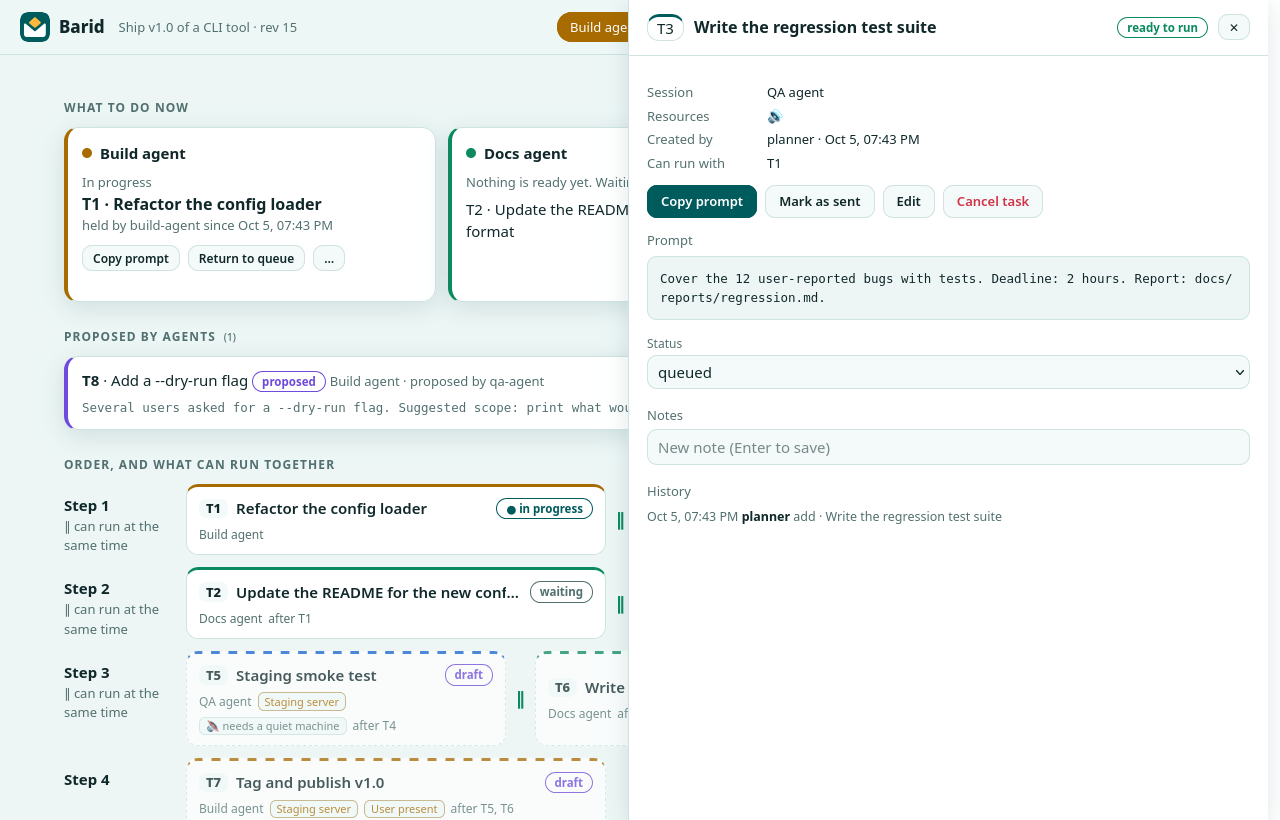
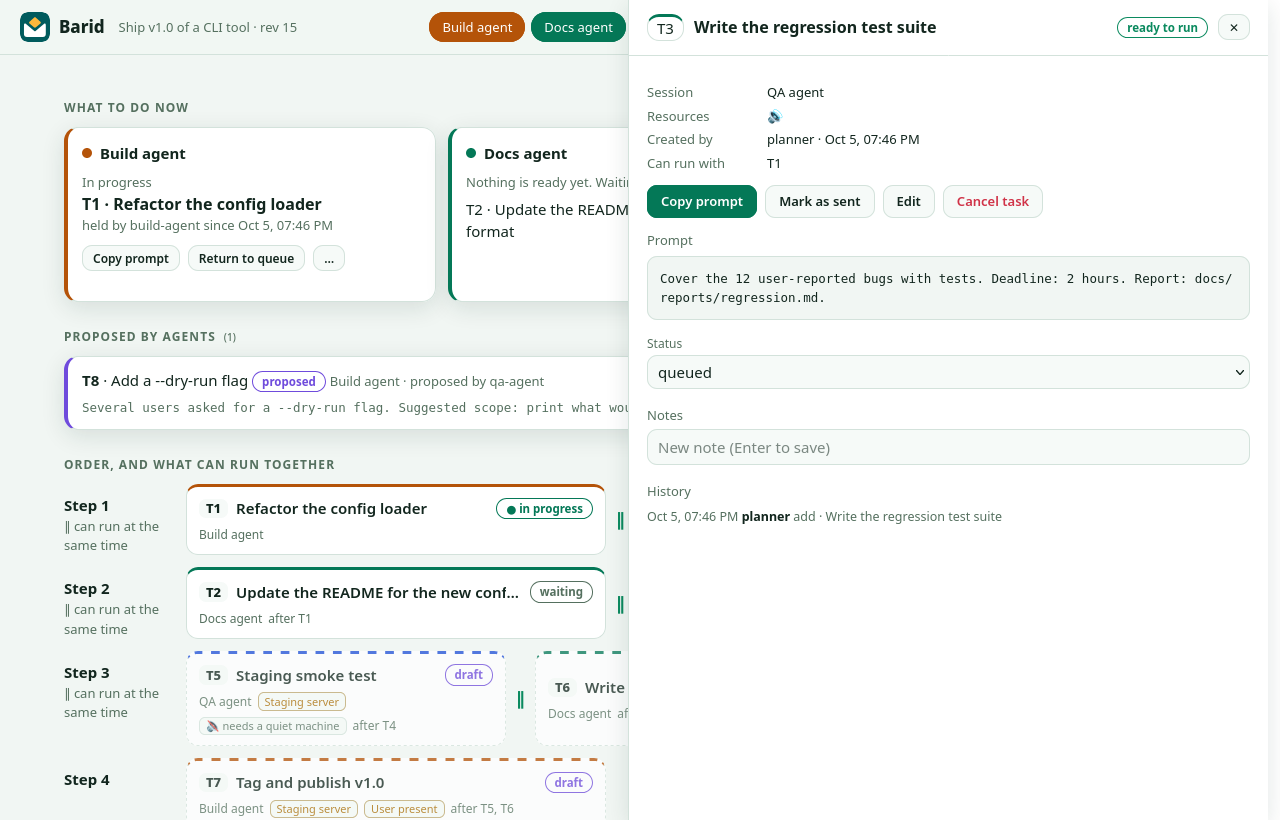
Panel: Appearance button with auto/light/dark mode and four palettes (default: Forest)

Changed region(s): [[0.3125, 0.0, 0.5, 0.061], [0.5, 0.2134, 0.5938, 0.2744], [0.4062, 0.6098, 0.4375, 0.6402]]

diff --git a/skills/barid/scripts/panel.html b/skills/barid/scripts/panel.html
@@ -6,18 +6,25 @@
 <title>Barid</title>
[1 lines of base64/hex data omitted]
 <style>
-:root{
-  --bg:#022f30;--panel:#06403f;--panel2:#0a5051;--line:#14666a;--tx:#ecf8f6;--mute:#93bdb9;--ac:#feb83b;--acfg:#2a1a00;--lanefg:#04282a;
-  --ok:#5fe3c0;--warn:#ffcf6b;--bad:#ff7b8b;--draft:#bda8ff;--shadow:0 6px 24px rgba(0,0,0,.32);
-  --l0:#feb83b;--l1:#86f9e4;--l2:#7fb7ff;--l3:#ff9fc0;--l4:#bda8ff;--l5:#6fe0ff;
+/* Themes: html[data-theme="dark|light"] x html[data-pal="forest|teal|graphite|midnight"]. Default: dark forest. */
+:root,html[data-theme="dark"]{
+  --ok:#5fe3a8;--warn:#ffcf6b;--bad:#ff7b8b;--draft:#bda8ff;--shadow:0 6px 24px rgba(0,0,0,.32);--lanefg:#04141a;
+  --l0:#fbbf24;--l1:#34d399;--l2:#60a5fa;--l3:#f472b6;--l4:#a78bfa;--l5:#22d3ee;
+  --bg:#0d1512;--panel:#131f1b;--panel2:#192a24;--line:#263d35;--tx:#e7f2ee;--mute:#8aa89d;--ac:#34d399;--acfg:#04231a;
 }
-@media (prefers-color-scheme:light){:root{
-  --bg:#edf6f5;--panel:#fff;--panel2:#f3faf9;--line:#cfe3e1;--tx:#10282a;--mute:#52706f;--ac:#005b5d;--acfg:#fff;--lanefg:#fff;
-  --ok:#0b8a5f;--warn:#a86b00;--bad:#d03348;--draft:#6f4bdc;--shadow:0 6px 24px rgba(0,60,60,.12);
-  --l0:#a86b00;--l1:#0b8a5f;--l2:#1763cf;--l3:#c2336f;--l4:#6f4bdc;--l5:#0b7fa6;
-}}
+html[data-theme="light"]{
+  --ok:#0b8a5f;--warn:#a86b00;--bad:#d03348;--draft:#6f4bdc;--shadow:0 6px 24px rgba(20,50,40,.12);--lanefg:#fff;
+  --l0:#b45309;--l1:#047857;--l2:#1d4ed8;--l3:#be185d;--l4:#6d28d9;--l5:#0e7490;
+  --bg:#f1f6f3;--panel:#fff;--panel2:#f6faf8;--line:#d3e2db;--tx:#12261e;--mute:#55705f;--ac:#047857;--acfg:#fff;
+}
+html[data-pal="teal"][data-theme="dark"]{--bg:#022f30;--panel:#06403f;--panel2:#0a5051;--line:#14666a;--tx:#ecf8f6;--mute:#93bdb9;--ac:#feb83b;--acfg:#2a1a00}
+html[data-pal="teal"][data-theme="light"]{--bg:#edf6f5;--panel:#fff;--panel2:#f3faf9;--line:#cfe3e1;--tx:#10282a;--mute:#52706f;--ac:#005b5d;--acfg:#fff}
+html[data-pal="graphite"][data-theme="dark"]{--bg:#0f1214;--panel:#161a1d;--panel2:#1d2226;--line:#2a3136;--tx:#e9eef0;--mute:#8b98a0;--ac:#6ee7b7;--acfg:#052e22}
+html[data-pal="graphite"][data-theme="light"]{--bg:#f3f5f6;--panel:#fff;--panel2:#f7f9fa;--line:#dde3e6;--tx:#14191c;--mute:#5b6870;--ac:#0f7a5a;--acfg:#fff}
+html[data-pal="midnight"][data-theme="dark"]{--bg:#0d1320;--panel:#151d2e;--panel2:#1b2539;--line:#26324b;--tx:#e8eefb;--mute:#8e9cb8;--ac:#5aa9ff;--acfg:#06203d}
+html[data-pal="midnight"][data-theme="light"]{--bg:#eef2f9;--panel:#fff;--panel2:#f5f8fd;--line:#d8e0ee;--tx:#14202f;--mute:#59687f;--ac:#1763cf;--acfg:#fff}
+html[data-theme="light"]{color-scheme:light}html[data-theme="dark"]{color-scheme:dark}
 *{box-sizing:border-box}
-html{color-scheme:dark light}
 body{margin:0;background:var(--bg);color:var(--tx);font:15px/1.5 system-ui,-apple-system,"Segoe UI",Roboto,sans-serif}
 button,input,select,textarea{font:inherit;color:inherit}
 button{cursor:pointer}
@@ -105,6 +112,17 @@ label{font-size:12px;color:var(--mute);display:block;margin-bottom:3px}
 #toast{position:fixed;bottom:18px;left:50%;transform:translateX(-50%);background:var(--ok);color:#06251a;padding:8px 16px;border-radius:999px;font-weight:700;opacity:0;pointer-events:none;transition:opacity .2s;z-index:80;max-width:90vw}
 #toast.show{opacity:1}#toast.err{background:var(--bad);color:#fff}
 .empty{color:var(--mute);font-style:italic;padding:8px 2px}
+.themewrap{position:relative}
+#themepop{position:absolute;right:0;top:calc(100% + 8px);width:260px;background:var(--panel);border:1px solid var(--line);border-radius:14px;box-shadow:var(--shadow);padding:12px;z-index:50}
+#themepop[hidden]{display:none}
+#themepop h4{margin:0 0 6px;font-size:12px;letter-spacing:.06em;text-transform:uppercase;color:var(--mute)}
+.seg{display:flex;border:1px solid var(--line);border-radius:10px;overflow:hidden;margin-bottom:12px}
+.seg button{flex:1;background:var(--panel2);border:0;padding:6px 4px;font-size:13px;color:var(--tx)}
+.seg button.on{background:var(--ac);color:var(--acfg);font-weight:700}
+.pals{display:grid;grid-template-columns:1fr 1fr;gap:8px}
+.pal{display:flex;align-items:center;gap:8px;border:1px solid var(--line);background:var(--panel2);border-radius:10px;padding:6px 8px;font-size:13px;text-align:left}
+.pal.on{border-color:var(--ac);outline:1px solid var(--ac)}
+.pal i{width:22px;height:22px;border-radius:50%;display:inline-block;border:1px solid rgba(128,128,128,.4)}
 details>summary{cursor:pointer;color:var(--mute);margin:6px 0}
 .ev{font-size:12.5px;color:var(--mute);padding:2px 0}
 .ev b{color:var(--tx)}
@@ -120,6 +138,7 @@ details>summary{cursor:pointer;color:var(--mute);margin:6px 0}
   <input type="search" id="q" autocomplete="off">
   <button class="btn pri" id="addbtn"></button>
   <button class="pill" id="langbtn"></button>
+  <span class="themewrap"><button class="pill" id="themebtn" aria-haspopup="true" aria-expanded="false"></button><div id="themepop" hidden></div></span>
 </header>
 <main>
   <h2 id="h-now"></h2>
@@ -151,7 +170,7 @@ var STR = {
   status:"Status", notes:"Notes", addnote:"New note (Enter to save)", history:"History", report:"Report", needs:"Depends on", uses:"Resources", lane:"Session", when:"When", created:"Created by", claim:"Held by",
   prompt:"Prompt", noprompt:"There is no prompt text yet.", title:"Title", outline:"Outline (what the prompt must achieve)", needs_l:"Depends on (IDs, comma separated)", uses_l:"Resources (comma separated)",
   quiet:"needs a quiet machine", noisy:"creates load", id:"ID", text:"Prompt text", create:"Create", offline:"No connection to the board server. Retrying…",
-  copy_path:"Copy report path", reopen:"Reopen", out:"Outcome", out_complete:"complete", out_partial:"partial", out_failed:"failed", out_none:"outcome not stated", accept_asis:"Accept as is", partial_warn:"The session stopped early or did not finish everything. Dependent tasks wait for your decision.", turn:"its turn has come", empty_flow:"No tasks yet. Ask your agent to add some, or press “+ New task”.",
+  copy_path:"Copy report path", reopen:"Reopen", theme:"Appearance", mode_auto:"Auto", mode_light:"Light", mode_dark:"Dark", palette:"Colors", pal_forest:"Forest", pal_teal:"Teal", pal_graphite:"Graphite", pal_midnight:"Midnight", out:"Outcome", out_complete:"complete", out_partial:"partial", out_failed:"failed", out_none:"outcome not stated", accept_asis:"Accept as is", partial_warn:"The session stopped early or did not finish everything. Dependent tasks wait for your decision.", turn:"its turn has come", empty_flow:"No tasks yet. Ask your agent to add some, or press “+ New task”.",
   s:{ready:"ready to run",waiting:"waiting",blocked:"busy",queued:"queued",draft:"draft",proposed:"proposed",sent:"sent",running:"in progress",review:"to review",done:"done",cancelled:"cancelled"},
   with_:"Can run with", wait_:"Depends on", conf_:"Waiting for", why:{lane:"same session",quiet:"quiet and load do not mix"}, rev:"rev", snapshot:"This is a read-only snapshot",
   ok_sent:"Marked as sent", ok_release:"Returned to the queue", ok_approve:"Approved", ok_reject:"Rejected", ok_accept:"Report accepted", ok_cancel:"Task cancelled", ok_restore:"Task restored",
@@ -170,7 +189,7 @@ var STR = {
   status:"Статус", notes:"Заметки", addnote:"Новая заметка (Enter — сохранить)", history:"История", report:"Отчёт", needs:"Зависит от", uses:"Ресурсы", lane:"Сессия", when:"Когда", created:"Автор", claim:"В работе у",
   prompt:"Промпт", noprompt:"Текста промпта ещё нет.", title:"Название", outline:"Суть (что должен сделать промпт)", needs_l:"Зависит от (ID через запятую)", uses_l:"Ресурсы (через запятую)",
   quiet:"нужна тишина", noisy:"создаёт нагрузку", id:"ID", text:"Текст промпта", create:"Создать", offline:"Нет связи с сервером доски. Пробую снова…",
-  copy_path:"Скопировать путь к отчёту", reopen:"Открыть заново", out:"Итог", out_complete:"выполнено полностью", out_partial:"выполнено частично", out_failed:"не удалось", out_none:"итог не указан", accept_asis:"Принять как есть", partial_warn:"Сессия остановилась раньше или сделала не всё. Зависимые задачи ждут вашего решения.", turn:"подошла очередь", empty_flow:"Задач пока нет. Попросите агента добавить их или нажмите «+ Новая задача».",
+  copy_path:"Скопировать путь к отчёту", reopen:"Открыть заново", theme:"Оформление", mode_auto:"Авто", mode_light:"Светлая", mode_dark:"Тёмная", palette:"Цвета", pal_forest:"Лес", pal_teal:"Бирюза", pal_graphite:"Графит", pal_midnight:"Полночь", out:"Итог", out_complete:"выполнено полностью", out_partial:"выполнено частично", out_failed:"не удалось", out_none:"итог не указан", accept_asis:"Принять как есть", partial_warn:"Сессия остановилась раньше или сделала не всё. Зависимые задачи ждут вашего решения.", turn:"подошла очередь", empty_flow:"Задач пока нет. Попросите агента добавить их или нажмите «+ Новая задача».",
   s:{ready:"можно запускать",waiting:"ждёт",blocked:"занято",queued:"в очереди",draft:"черновик",proposed:"предложено",sent:"отправлено",running:"в работе",review:"на проверке",done:"выполнено",cancelled:"отменено"},
   with_:"Можно вместе с", wait_:"Ждёт задачи", conf_:"Ждёт завершения", why:{lane:"та же сессия",quiet:"тишина и нагрузка несовместимы"}, rev:"версия", snapshot:"Это снимок только для чтения",
   ok_sent:"Отмечено как отправленное", ok_release:"Возвращено в очередь", ok_approve:"Одобрено", ok_reject:"Отклонено", ok_accept:"Отчёт принят", ok_cancel:"Задача отменена", ok_restore:"Задача восстановлена",
@@ -193,6 +212,15 @@ function errText(e) {
 var ACT_OK = {sent: "ok_sent", approve: "ok_approve", reject: "ok_reject", accept: "ok_accept", cancel: "ok_cancel", restore: "ok_restore", release: "ok_release", note: "ok_note", outcome: "ok_outcome", edit: "ok_saved", add: "ok_created"};
 function st(s) { return (STR[S.lang] || STR.en).s[s] || s; }
 function $(id) { return document.getElementById(id); }
+var PALS = ["forest", "teal", "graphite", "midnight"], SWATCH = {forest: "#34d399", teal: "#feb83b", graphite: "#6ee7b7", midnight: "#5aa9ff"};
+function lsGet(k) { try { return localStorage.getItem(k) || ""; } catch (e) { return ""; } }
+function lsSet(k, v) { try { localStorage.setItem(k, v); } catch (e) {} }
+var QS = new URLSearchParams(location.search);
+S.mode = QS.get("mode") || lsGet("rb.mode") || "auto"; S.pal = QS.get("pal") || lsGet("rb.pal") || "forest";
+function effMode() { return S.mode === "auto" ? (window.matchMedia && matchMedia("(prefers-color-scheme: light)").matches ? "light" : "dark") : S.mode; }
+function applyTheme() { var r = document.documentElement; r.dataset.theme = effMode(); r.dataset.pal = PALS.indexOf(S.pal) >= 0 ? S.pal : "forest"; }
+applyTheme();
+if (window.matchMedia) { try { matchMedia("(prefers-color-scheme: light)").addEventListener("change", function () { if (S.mode === "auto") applyTheme(); }); } catch (e) {} }
 function h(tag, attrs) {
   var e = document.createElement(tag);
   if (attrs) for (var k in attrs) {
@@ -250,7 +278,7 @@ function turnOf(c) { return c.status === "draft" && c.waiting_on.length === 0; }
 function setStatic() {
   document.documentElement.lang = S.lang;
   $("h-now").textContent = t("now"); $("h-flow").textContent = t("flow"); $("q").placeholder = t("search"); $("addbtn").textContent = t("add"); $("langbtn").textContent = t("lang");
-  $("archbtn").textContent = (S.arch ? "▾ " : "▸ ") + t("archive"); $("actbtn").textContent = (S.act ? "▾ " : "▸ ") + t("activity");
+  $("themebtn").textContent = "◐ " + t("theme"); $("themebtn").title = t("theme"); $("archbtn").textContent = (S.arch ? "▾ " : "▸ ") + t("archive"); $("actbtn").textContent = (S.act ? "▾ " : "▸ ") + t("activity");
   $("archive").hidden = !S.arch; $("activity").hidden = !S.act;
 }
 
@@ -493,9 +521,31 @@ $("addbtn").addEventListener("click", openAdd);
 $("langbtn").addEventListener("click", function () { S.lang = S.lang === "ru" ? "en" : "ru"; try { localStorage.setItem("rb.lang", S.lang); } catch (e) {} render(); });
 $("archbtn").addEventListener("click", function () { S.arch = !S.arch; try { localStorage.setItem("rb.arch", S.arch ? "1" : "0"); } catch (e) {} setStatic(); });
 $("actbtn").addEventListener("click", function () { S.act = !S.act; try { localStorage.setItem("rb.act", S.act ? "1" : "0"); } catch (e) {} setStatic(); });
+function renderThemePop() {
+  var pop = clear($("themepop"));
+  pop.appendChild(h("h4", {text: t("theme")}));
+  var seg = h("div", {class: "seg"});
+  [["auto", "mode_auto"], ["light", "mode_light"], ["dark", "mode_dark"]].forEach(function (m) {
+    seg.appendChild(h("button", {class: S.mode === m[0] ? "on" : "", text: t(m[1]), onclick: function () { S.mode = m[0]; lsSet("rb.mode", m[0]); applyTheme(); renderThemePop(); }}));
+  });
+  pop.appendChild(seg);
+  pop.appendChild(h("h4", {text: t("palette")}));
+  var g = h("div", {class: "pals"});
+  PALS.forEach(function (k) {
+    g.appendChild(h("button", {class: "pal" + (S.pal === k ? " on" : ""), onclick: function () { S.pal = k; lsSet("rb.pal", k); applyTheme(); renderThemePop(); }}, h("i", {style: "background:" + SWATCH[k]}), t("pal_" + k)));
+  });
+  pop.appendChild(g);
+}
+function toggleThemePop(open) {
+  var pop = $("themepop"); var show = open === undefined ? pop.hidden : open;
+  if (show) renderThemePop();
+  pop.hidden = !show; $("themebtn").setAttribute("aria-expanded", show ? "true" : "false");
+}
+$("themebtn").addEventListener("click", function (e) { e.stopPropagation(); toggleThemePop(); });
+document.addEventListener("click", function (e) { if (!$("themepop").hidden && !$("themepop").contains(e.target)) toggleThemePop(false); });
 $("modal").addEventListener("click", function (e) { if (e.target === $("modal")) $("modal").classList.remove("open"); });
 document.addEventListener("keydown", function (e) {
-  if (e.key === "Escape") { $("modal").classList.remove("open"); closeDrawer(); }
+  if (e.key === "Escape") { toggleThemePop(false); $("modal").classList.remove("open"); closeDrawer(); }
   else if (e.key === "/" && document.activeElement.tagName !== "INPUT" && document.activeElement.tagName !== "TEXTAREA") { e.preventDefault(); $("q").focus(); }
 });
 document.addEventListener("visibilitychange", function () { if (!document.hidden) poll(); });

diff --git a/tests/test_rb.py b/tests/test_rb.py
@@ -432,6 +432,16 @@ class PanelI18nTests(unittest.TestCase):
         for key in re.findall(r'"(ok_\w+)"', self.html):
             self.assertIn(key, self.STR["en"], key)
 
+    def test_every_palette_exists_in_both_modes_and_has_a_name(self):
+        import re
+        for pal in ("teal", "graphite", "midnight"):
+            for mode in ("dark", "light"):
+                self.assertIn(f'html[data-pal="{pal}"][data-theme="{mode}"]', self.html)
+        listed = re.search(r"var PALS = \[(.*?)\]", self.html).group(1)
+        for pal in re.findall(r'"(\w+)"', listed):
+            for lang in ("en", "ru"):
+                self.assertIn("pal_" + pal, self.STR[lang])
+
     def test_every_error_code_raised_by_rb_has_a_translation(self):
         import re
         codes = set(re.findall(r'RBError\([^\n]*?, "(\w+)"', RB_PATH.read_text("utf-8")))

diff --git a/README.md b/README.md
@@ -88,7 +88,7 @@ draft -> queued -> sent -> running -> review -> done        (proposed -> queued 
 | **Details** | prompt text, notes, history, edit form, any status |
 | **Archive / Activity** | finished and cancelled tasks, the event log |
 
-English and Russian built in (auto-detected, switch in the header), dark and light themes, works on a phone. The panel polls only while its tab is visible and costs nothing when closed: the server exits after 30 idle minutes (`barid open --idle-exit 0` keeps it).
+English and Russian built in (auto-detected, switch in the header), light, dark or automatic mode and four colour palettes (Forest, Teal, Graphite, Midnight) from the *Appearance* button, works on a phone. The panel polls only while its tab is visible and costs nothing when closed: the server exits after 30 idle minutes (`barid open --idle-exit 0` keeps it).
 
 ![Details drawer](docs/img/panel-light-drawer.png)
 
